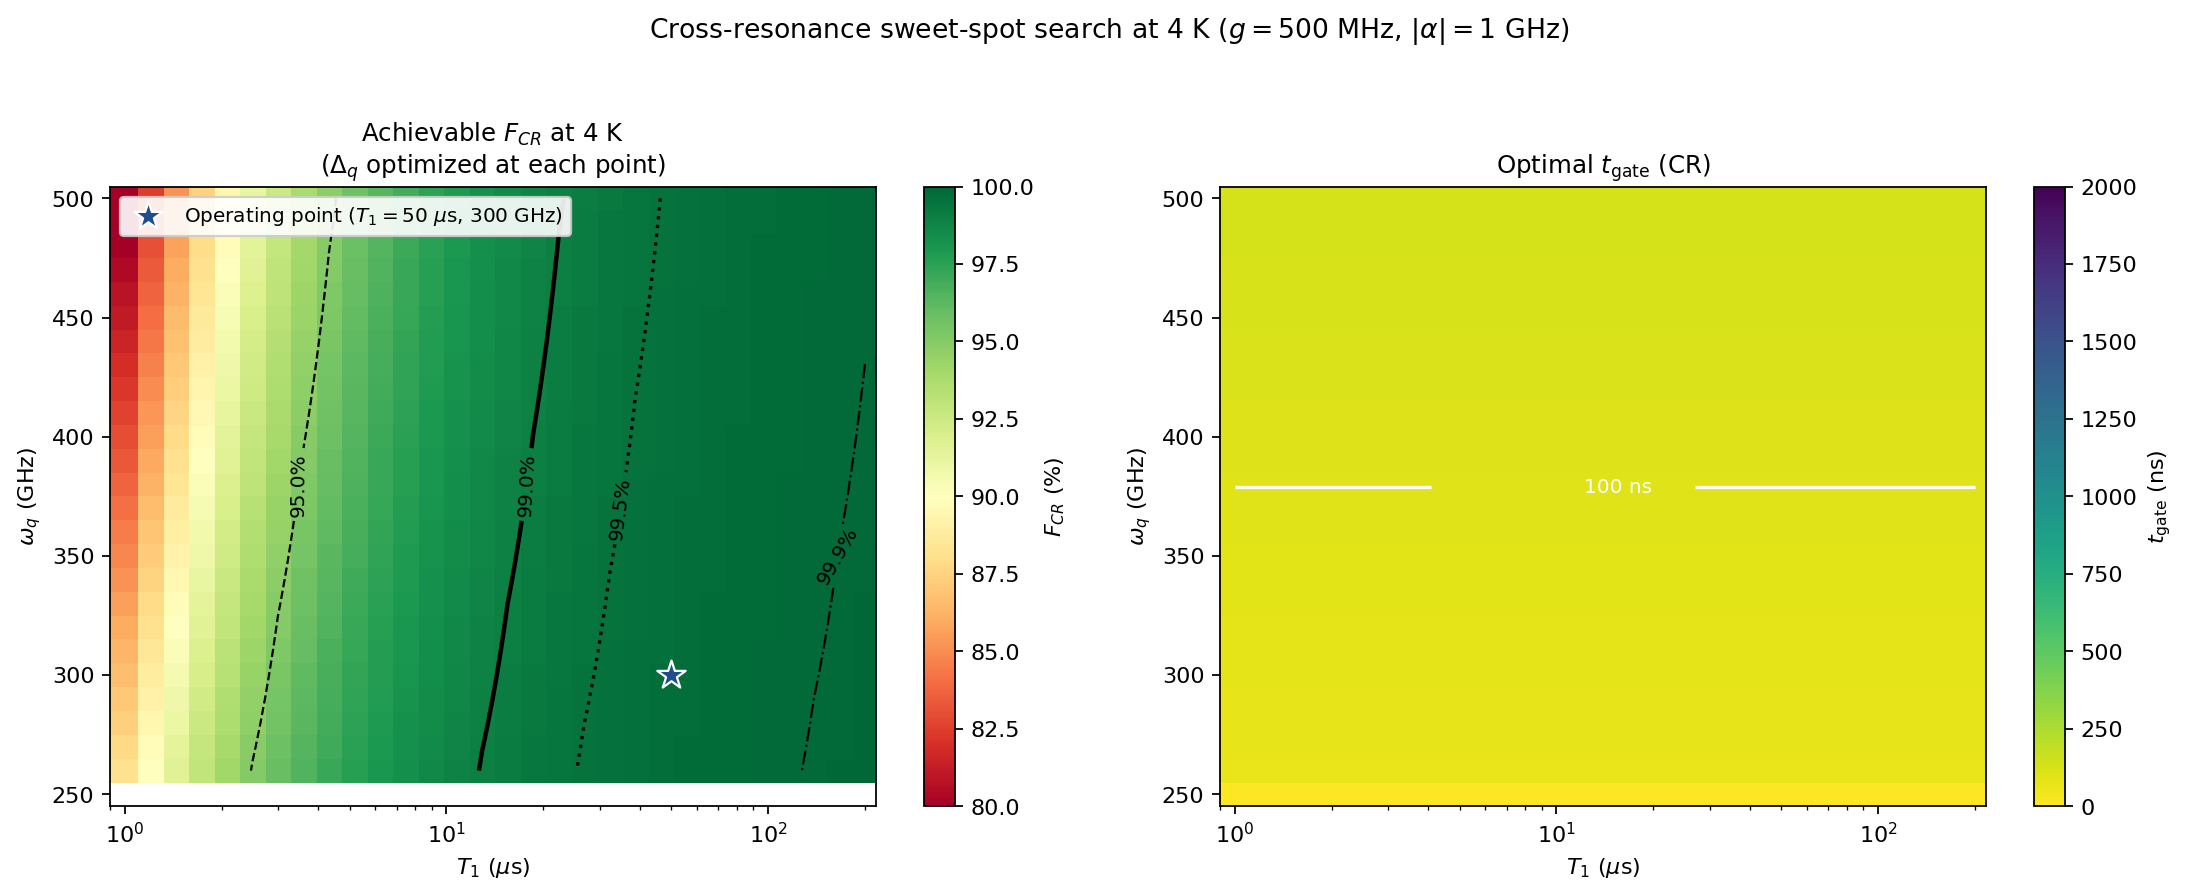
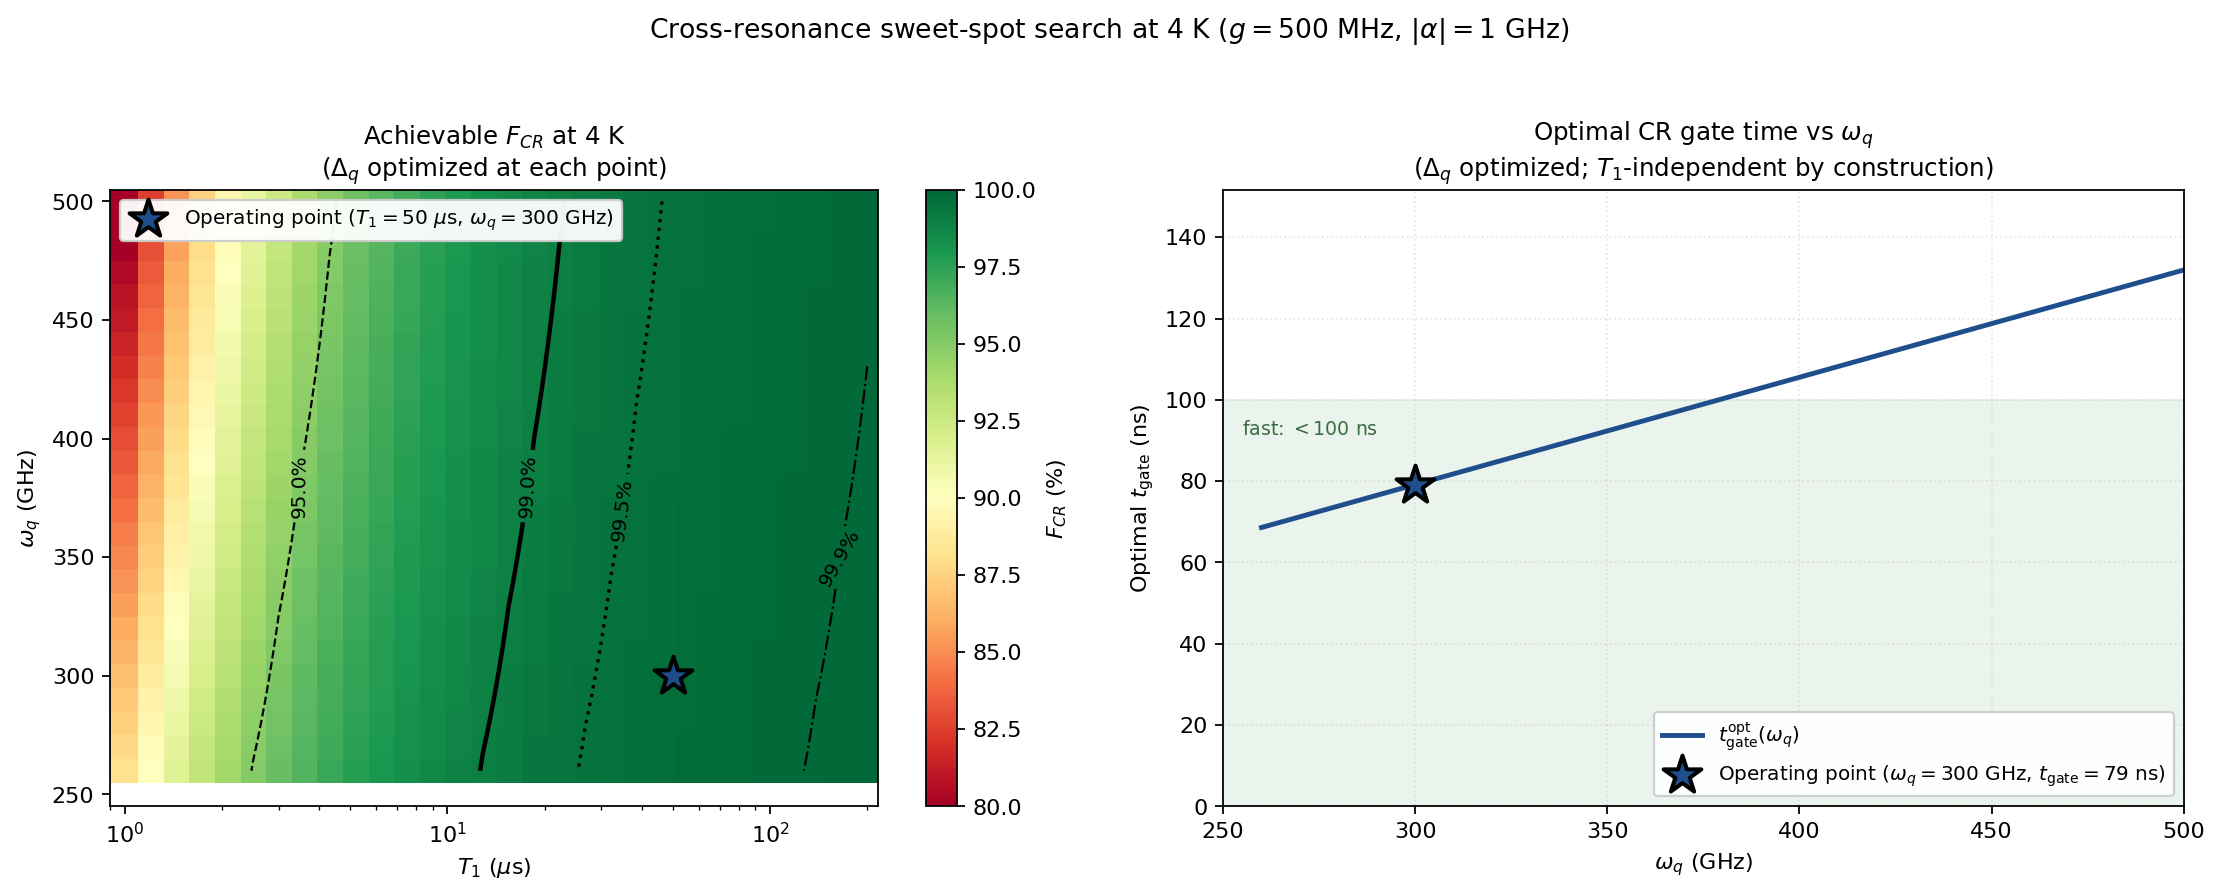
Cap.2 Fig.2.21: make operating-point star visible + replace meaningless t_gate heatmap with the real 1D dependence
Two problems with the figure as it was:

  1. Operating-point marker (blue star at T_1=50 us, omega_q=300 GHz)
     was drawn with edgecolor='white', which gave it essentially no
     contrast against the green region of the heatmap, so the marker
     was visually absent from the figure even though the legend
     advertised it.

  2. Right panel showed a 2D heatmap of t_gate^opt over (omega_q, T_1)
     with colormap range 0-2000 ns, but the actual t_gate values lie
     between 68 and 132 ns and the dependence is one-dimensional:
     t_CR = pi/(4 |Omega_ZX|) depends only on the couplings, not on
     T_1. The heatmap therefore rendered as a single uniform yellow
     band with one barely-visible 100 ns contour, conveying no
     information.

Fixes:

  Left panel: star marker now has black edge (linewidth 1.8) and a
  larger size (s=320), with zorder=10 so it is drawn above the
  contour lines. Operating point is now unambiguously visible between
  the 99.5% and 99.9% contours.

  Right panel: replaced by a 1D plot of t_gate^opt vs omega_q (the
  only dimension along which t_gate^opt varies). The curve grows
  approximately linearly from ~68 ns at 250 GHz to ~132 ns at
  500 GHz; at the operating point omega_q = 300 GHz the gate time
  is 79 ns, marked by the matching blue star. Title explicitly
  states 'T_1-independent by construction' so the reader knows why
  the figure dropped one dimension.

Caption rewritten accordingly. Also removed the residual 'innovation'
[…]

diff --git a/chapters/quantum_hw.tex b/chapters/quantum_hw.tex
@@ -3239,20 +3239,27 @@ In summary, the chapter has developed a model of an asymmetric SQUID transmon ba
 The cross-resonance protocol of \S\ref{sec:gate_strategy} reduces the
 two-qubit gate fidelity question to a clear set of materials and engineering
 requirements. We identify here, with quantitative targets, the six
-prerequisites for reaching $F_{\text{avg}} \ge 99\%$ on the innovation
-elevated-temperature operating point ($\omega_q\!\sim\!300$~GHz, $T = 4$~K).
+prerequisites for reaching $F_{\text{avg}} \ge 99\%$ on the elevated-temperature
+operating point ($\omega_q\!\sim\!300$~GHz, $T = 4$~K).
 
 \begin{figure}[htbp]
     \centering
     \includegraphics[width=\textwidth]{chapters/qh_figures/cross_resonance_sweetspot_map_4K.png}
-    \caption{Achievable cross-resonance gate fidelity at $T=4$~K as a function
-    of qubit frequency $\omega_q$ and coherence time $T_1$, with $\Delta_q$
-    independently optimized at each point. The bold solid contour at
-    $F_{\text{avg}}=99\%$ defines the boundary of the operational sweet spot.
+    \caption{Cross-resonance gate at $T = 4$~K, with the qubit--qubit detuning
+    $\Delta_q$ independently optimized at each point.
+    \textbf{(Left)} Achievable average gate fidelity $F_{CR}$ as a function of
+    coherence time $T_1$ and qubit frequency $\omega_q$. The solid contour at
+    $F_{CR} = 99\%$ defines the boundary of the operational sweet spot.
     The blue star marks the operating point of this work
-    ($T_1\!=\!50~\mu$s, $\omega_q = 300$~GHz). The gate time, optimized over
-    $\Delta_q$, is approximately constant ($\sim\!200$~ns) over the parameter
-    range shown (right panel).}
+    ($T_1 = 50~\mu$s, $\omega_q = 300$~GHz), which sits between the $99.5\%$ and
+    $99.9\%$ contours.
+    \textbf{(Right)} Optimal gate time $t_{\rm gate}^{\rm opt}$ as a function
+    of $\omega_q$. The optimum over $\Delta_q$ is $T_1$-independent by
+    construction (the gate time is set by $\Omega_{ZX}$, which does not depend
+    on $T_1$), so the dependence is one-dimensional. The gate time grows
+    approximately linearly with $\omega_q$, from $\sim\!68$~ns at $250$~GHz to
+    $\sim\!130$~ns at $500$~GHz; at the operating point it is $\sim\!79$~ns,
+    safely within the fast-gate region ($t_{\rm gate} < 100$~ns).}
     \label{fig:sweetspot_4K}
 \end{figure}
 
